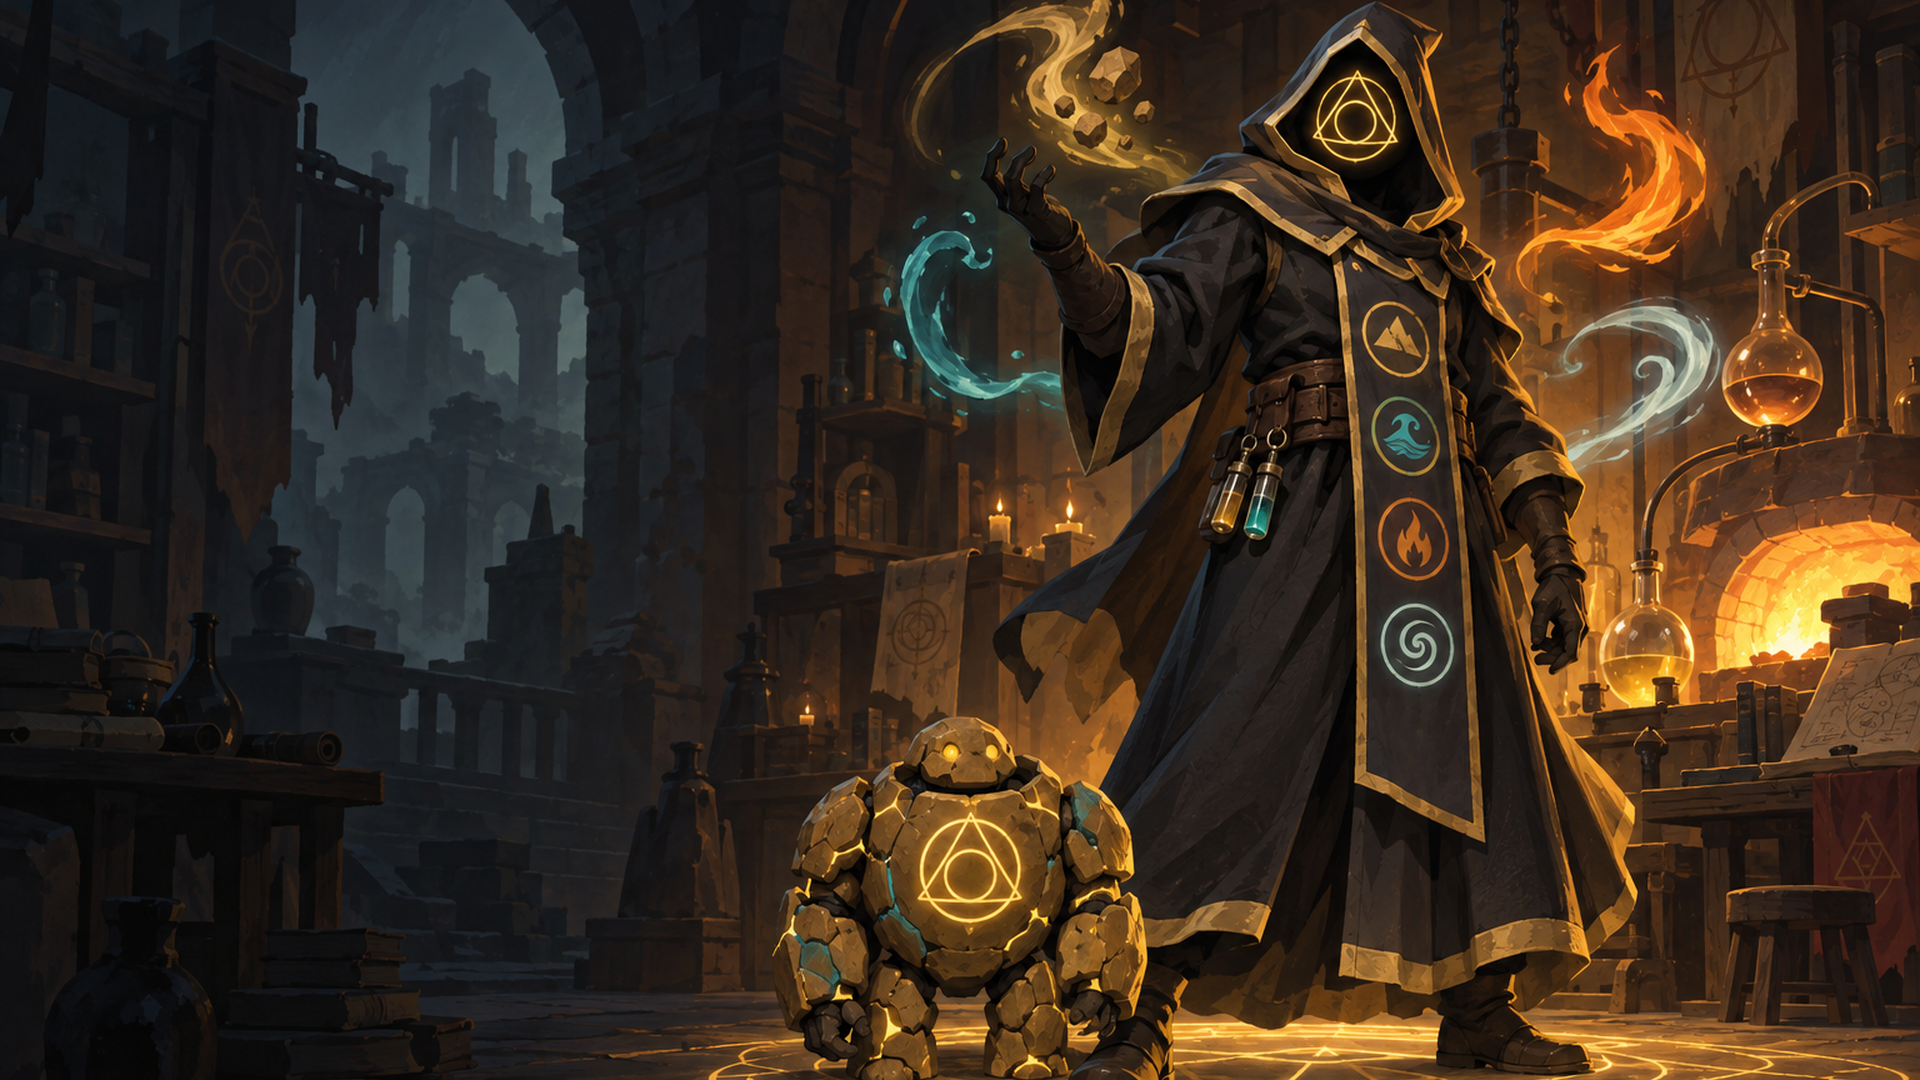
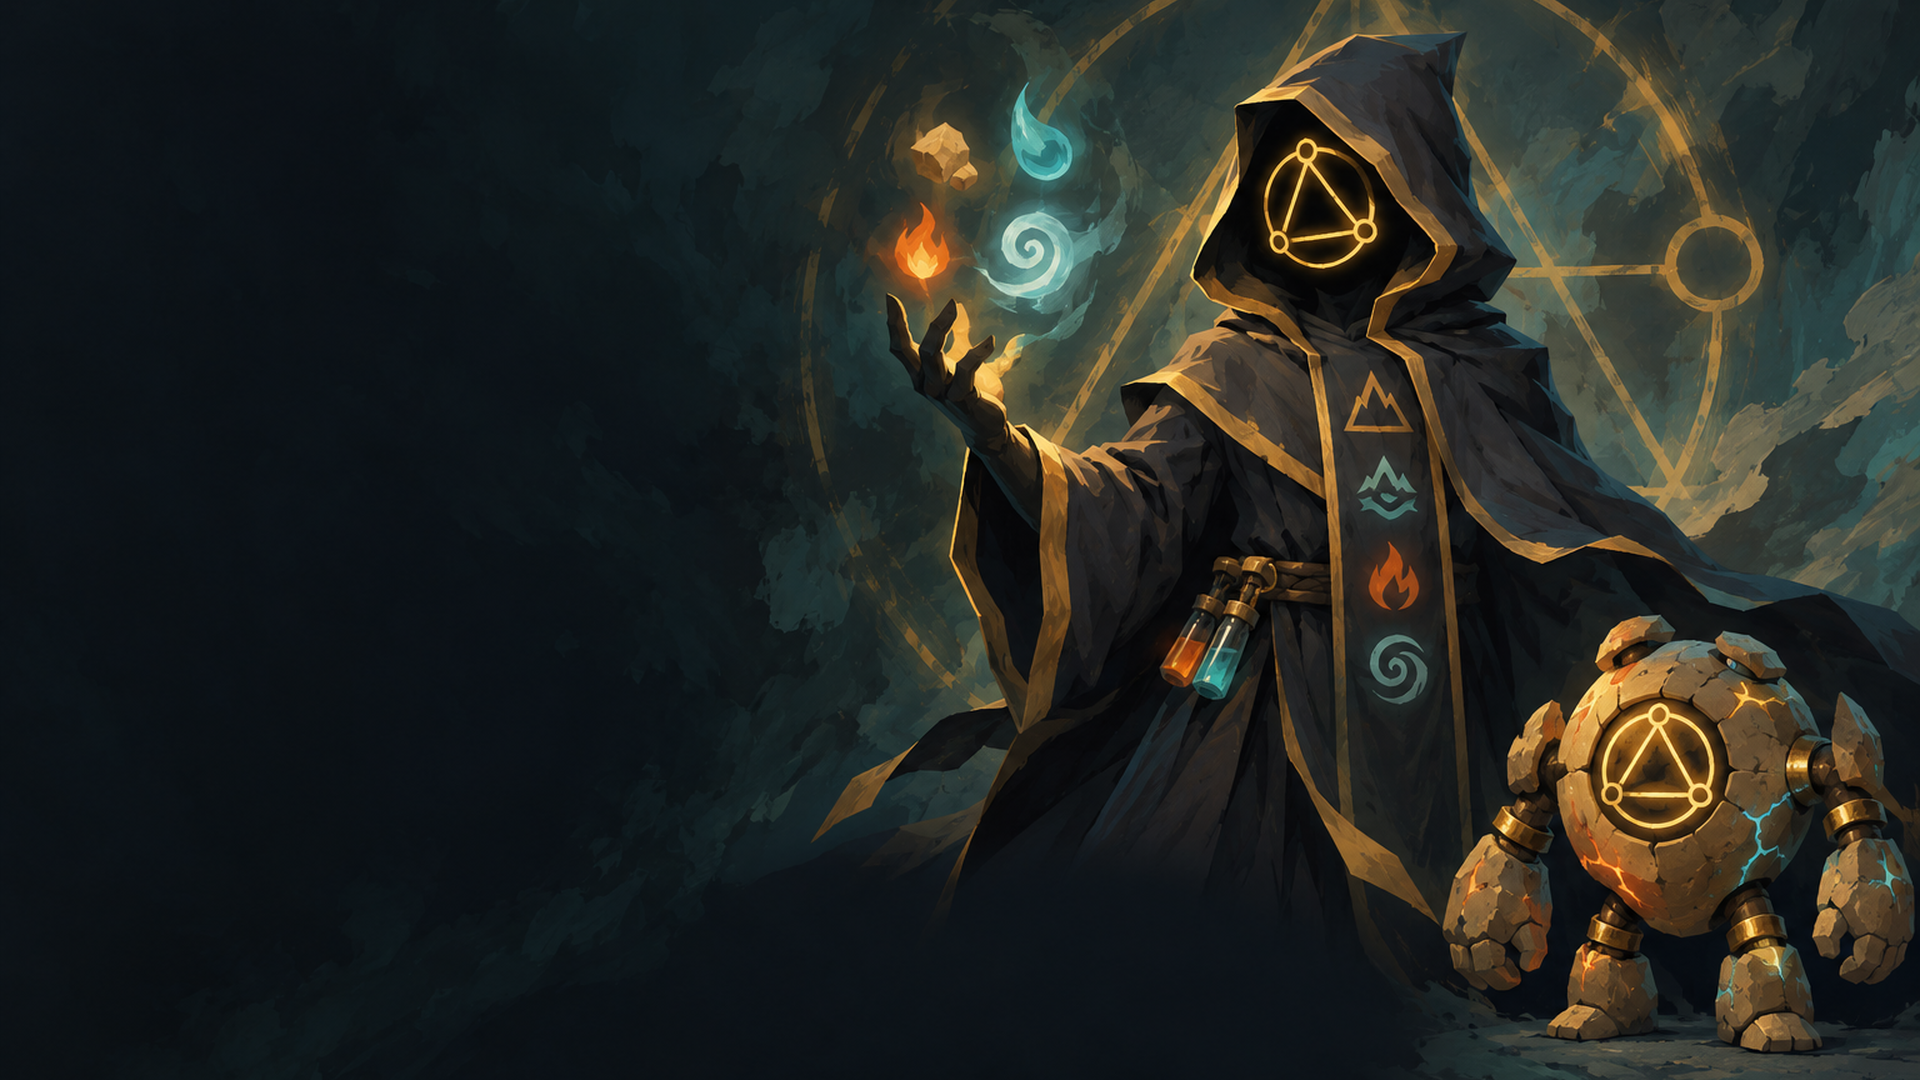
キャラ選択：アイコンを自前の絵の場所から読む、顔アップの肖像、シンプルな背景

diff --git a/scripts/select-bg.py b/scripts/select-bg.py
@@ -3,7 +3,10 @@
 Usage: python scripts/select-bg.py [--note "extra direction"] [--crop-only]
 Writes assets/concepts/select-bg.png (the raw image) and assets/art/character/select_bg.png (1920x1080, what the
 mod shows; CharacterArt.SelectBg). The base game's select screens put the character right of centre and keep the
-left side calm for the character list and description (2026-09-30).
+left side calm for the character list and description (2026-09-30). Second version (user, same day: the workshop was
+too busy and the golem sat under the ascension panel): a plain backdrop, the golem at the far right. At 1920x1080 the
+game's UI covers the info panel (x 296-822, y 345-779), the ascension panel (x 643-1277, y 738-855), the character
+buttons (y 851-1005, centred) and the confirm button (x 1760-, y 726-836), from character_select_screen.tscn.
 """
 import shutil
 import subprocess
@@ -36,12 +39,16 @@ brief = (
     "The first attached image is the base game's cast (visual language only, do not copy). The second is the "
     "Alchemist: draw them exactly like it (hooded charcoal robe with gold trim, a glowing gold alchemical sigil as the "
     "face, a vertical band of the four element marks, belt with two vials). The third is their small stone golem "
-    "companion: include it at the Alchemist's feet.\n"
-    "Composition: the Alchemist stands large, right of centre (occupying roughly the right half), three-quarter view, "
-    "a confident pose with one hand raised, a faint gold transmutation circle glowing under them. Setting: a dim, "
-    "atmospheric alchemist's workshop inside old stone ruins, with a glowing furnace, glassware, and four subtle "
-    "wisps of the element colours (ochre earth, teal water, orange fire, pale cyan air) drifting around the figure. "
-    "The left 40% of the image is darker and calmer (UI text will sit there) but still part of the same scene.\n"
+    "companion: include it clearly, standing beside the Alchemist.\n"
+    "Background: SIMPLE, like the base game's select screens: no room, no furniture, no architecture, no props. Only "
+    "a dark charcoal-to-deep-teal backdrop with soft painterly brush texture and a large faint gold transmutation "
+    "circle glowing behind the figures, plus four small wisps of the element colours (ochre earth, teal water, orange "
+    "fire, pale cyan air) near the Alchemist's raised hand.\n"
+    "Composition (the game's UI covers parts of the screen, keep them plain): the Alchemist stands large in the right "
+    "half, three-quarter view, one hand raised, the hood's top near the upper edge. The golem stands at the far right "
+    "next to the Alchemist, with its whole body visible and its feet ABOVE the bottom quarter. The left 40% and the "
+    "bottom-centre band (the lowest 30% between 25% and 70% of the width, where the character buttons and the "
+    "ascension selector sit) contain only the plain backdrop.\n"
     "Style: Slay the Spire 2 painterly look, minimal thin line work, large flat colour masses with soft brush "
     "texture, dramatic lighting. No text, no logo, no frame, no UI.\n" + (f"Extra direction: {note}\n" if note else ""))
 cmd = [codex, "exec", "-s", "workspace-write", "-C", str(ROOT), "-c", 'model_reasoning_effort="low"']

diff --git a/scripts/make-character-art.py b/scripts/make-character-art.py
@@ -5,7 +5,7 @@ Input: assets/art/character/alchemist.png (python scripts/import-pet.py assets/c
 --height 1000 --out assets/art/character/alchemist.png). Writes into assets/art/character/:
   icon.png          85x85   top panel, run history, ancients' dialogue (the hooded head with the sigil)
   icon_outline.png  85x85   white silhouette of icon.png, drawn behind it
-  char_select.png   132x195 character select button (bust on a teal panel)
+  char_select.png   132x195 character select button (the hooded face close up on a teal panel)
   map_marker.png    49x64   map position marker (a chevron, like the base game's)
 char_select and map_marker are also written as .ctex: the game types those two as CompressedTexture2D, which only
 loads Godot's own texture file (header "GST2" + WebP, the same layout as the base game's imported files).
@@ -20,6 +20,7 @@ from PIL import Image, ImageDraw, ImageFilter
 ROOT = Path(__file__).resolve().parent.parent
 DIR = ROOT / "assets/art/character"
 TEAL, DARK, GOLD = (115, 214, 178), (22, 54, 50), (214, 170, 84)
+SELECT_BG = (32, 150, 128)  # saturated like the base game's portraits (red, green, blue, pink, orange)
 
 body = Image.open(DIR / "alchemist.png").convert("RGBA")
 w, h = body.size
@@ -37,15 +38,17 @@ outline = Image.new("RGBA", icon.size, (255, 255, 255, 0))
 outline.putalpha(alpha)
 outline.save(DIR / "icon_outline.png")
 
-# Character select: head and shoulders on a flat panel, like the base game's buttons.
+# Character select: the hooded face close up on a flat saturated colour, like the base game's buttons (user,
+# 2026-09-30: "closer, about just the face"). The sigil face sits at about (0.71w, 0.12h) of the key visual.
 cw, ch = 132, 195
-bust = body.crop((int(w * 0.32), 0, int(w * 0.94), int(w * 0.62 * ch / cw)))
-bust = bust.resize((cw, round(bust.height * cw / bust.width)), Image.LANCZOS)
-panel = Image.new("RGBA", (cw, ch), DARK + (255,))
+fw = int(w * 0.34)
+fx = int(w * 0.71) - fw // 2
+bust = body.crop((fx, int(h * 0.01), fx + fw, int(h * 0.01) + fw * ch // cw)).resize((cw, ch), Image.LANCZOS)
+panel = Image.new("RGBA", (cw, ch), SELECT_BG + (255,))
 glow = Image.new("RGBA", (cw, ch), (0, 0, 0, 0))
-ImageDraw.Draw(glow).ellipse((-20, 10, cw + 20, ch + 60), fill=TEAL + (110,))
-panel.alpha_composite(glow.filter(ImageFilter.GaussianBlur(24)))
-panel.alpha_composite(bust.crop((0, 0, cw, ch)), (0, 8))
+ImageDraw.Draw(glow).ellipse((10, 20, cw - 10, ch - 60), fill=(150, 235, 205, 120))
+panel.alpha_composite(glow.filter(ImageFilter.GaussianBlur(20)))
+panel.alpha_composite(bust)
 ImageDraw.Draw(panel).rectangle((0, 0, cw - 1, ch - 1), outline=GOLD + (255,), width=2)
 panel.save(DIR / "char_select.png")
 

diff --git a/tests/Alchemy.Smoke/Smoke.cs b/tests/Alchemy.Smoke/Smoke.cs
@@ -652,6 +652,13 @@ public static class Smoke
             Check(character.CharacterSelectIcon is { } selectIcon && selectIcon.GetWidth()==132 && selectIcon.GetHeight()==195
                 && character.MapMarker is { } mapMarker && mapMarker.GetWidth()==49 && mapMarker==CharacterArt.MapMarker,
                 $"the character select portrait and the map marker load from the mod's .ctex files ({character.CharacterSelectIcon?.GetSize()}, {character.MapMarker?.GetSize()})");
+            // The select button and map load by path (ResourceLoader), not through the patched getters alone.
+            string? selectPath=Traverse.Create(character).Property("CharacterSelectIconPath").GetValue<string>();
+            string? markerPath=Traverse.Create(character).Property("MapMarkerPath").GetValue<string>();
+            var byPath=selectPath is null ? null : ResourceLoader.Load<CompressedTexture2D>(selectPath);
+            var markerByPath=markerPath is null ? null : ResourceLoader.Load<CompressedTexture2D>(markerPath);
+            Check(byPath is { } bp && bp.GetWidth()==132 && bp.GetHeight()==195 && markerByPath is { } mp && mp.GetWidth()==49,
+                $"the game's loader reads the alchemist's select portrait and map marker from their paths ({selectPath}, {byPath?.GetSize()}, {markerByPath?.GetSize()})");
             // Shaped like the base game's AnimatedBg at 1920x1080: 2560x1200 at (-388,-80), scaled 1.1 about (1280, 600).
             var bgContainer=new Control{Position=new Vector2(-388,-80),Size=new Vector2(2560,1200),Scale=new Vector2(1.1f,1.1f),PivotOffset=new Vector2(1280,600)};
             bgContainer.AddChild(new Control{Name=character.Id.Entry+"_bg"});

diff --git a/src/Alchemy/Character.cs b/src/Alchemy/Character.cs
@@ -39,6 +39,12 @@ public sealed class AlchemistCharacter : PlaceholderCharacterModel
             ExpandMode = TextureRect.ExpandModeEnum.IgnoreSize, StretchMode = TextureRect.StretchModeEnum.KeepAspectCentered,
         }
         : null;
+    public override string? CustomCharacterSelectIconPath
+        => CharacterArt.CtexPath("char_select.ctex") ?? base.CustomCharacterSelectIconPath;
+    public override string? CustomCharacterSelectLockedIconPath
+        => CharacterArt.CtexPath("char_select.ctex") ?? base.CustomCharacterSelectLockedIconPath;
+    public override string? CustomMapMarkerPath
+        => CharacterArt.CtexPath("map_marker.ctex") ?? base.CustomMapMarkerPath;
     public override List<(string, string)> Localization => new CharacterLoc(
         "錬金術師", "錬金術師", "四元素の相を切り替えて戦い、現在相から素材を採取する。\n工房で錬成・改造・調薬・付与を行う旅人。\n【試作版：外見は仮】",
         "彼ら", "彼ら", "彼らの", "彼らの", "薬草と鉄", "次の相へ。", "炉の火が消えた。", "まだ火は残っている。", "次の工房に備えよう。", "錬金術師のカード", "錬金術師のカードを使う。");

diff --git a/src/Alchemy/CardArt.cs b/src/Alchemy/CardArt.cs
@@ -65,6 +65,15 @@ public static class CharacterArt
     public static CompressedTexture2D? CharacterSelect => Ctex("char_select.ctex");
     public static CompressedTexture2D? MapMarker => Ctex("map_marker.ctex");
 
+    /// The file's absolute path for the game's ResourceLoader, or null without the file. The getters that hand out
+    /// these textures only load a path, and a postfix on them did not reach the real select button (still the
+    /// Ironclad, user report 2026-09-30), so the path itself is redirected.
+    public static string? CtexPath(string file)
+    {
+        string path = Path.Combine(ArtDirectory, file);
+        return File.Exists(path) ? path.Replace('\\', '/') : null;
+    }
+
     private static Texture2D? Png(string file, int height = 0)
     {
         if (Loaded.TryGetValue(file, out var cached)) return cached;

diff --git a/docs/session-log.md b/docs/session-log.md
@@ -19,6 +19,11 @@
 
 
 ### やったこと
+- **キャラ選択の肖像・背景を作り直し**（2026-09-30、ユーザー：「アイコンがアイアンクラッドになっている」「背景がごちゃごちゃ。他キャラと同じく後ろはシンプルに、ゴーレムを見やすい位置に。アセンション欄に被っている」「アイコンは顔だけくらいのアップで」）：
+  - アイコン：ゲームはボタンの絵を`CharacterSelectIconPath`から読む。getterの後置きが実機で効いていなかった（推定：呼び出し側へのインライン化）ため、`CustomCharacterSelectIconPath`・`CustomCharacterSelectLockedIconPath`・`CustomMapMarkerPath`を自前の.ctexの絶対パスにした（`CharacterArt.CtexPath`）。ゲームの`ResourceLoader`で読めることをスモークで確認。
+  - 肖像は顔のアップを彩度の高い青緑の単色に（`scripts/make-character-art.py`、バニラの並びと比較済み）。
+  - 背景：`scripts/select-bg.py`の指示を変更（部屋・小物なし、暗い背景と錬成陣だけ、ゴーレムは右端）。UIの位置はゲームの`character_select_screen.tscn`から読み、docstringに記録。確認ボタンがゴーレムの右の拳に少し掛かる。
+  - スモーク381件PASS、ゲームへ反映済み（旧版`artifacts/backups/20260930-230733-260`）。実画面は未確認。
 - **ストライク・防御の絵を作り直し**（2026-09-30、ユーザー：「ストライクは赤、防御は青を背景にしないと他キャラと整合が取れない。見づらい」）：バニラ5キャラのストライク・防御をpckから取り出して比較（赤地に武器1つの大写し／青緑地に盾と白い矢印が弾かれる。背景は単色と筆跡のみ）。その型で4案を1回生成（`artifacts/art-gen/basics/`、参考画像にバニラの比較シートを渡した。リポジトリには入れない）→ユーザーが**ストライクB（籠手と真鍮の乳棒）・防御A（錬成陣の丸盾）**を選択、取り込み・ゲームへ反映済み（旧版`artifacts/backups/20260930-224745-893`）。実画面は未確認。他のカード絵はまだ紫の背景で描き込みが多い。同じ理由で直すかは未確認。
 - **キャラ選択画面の背景**（2026-09-30、ユーザー依頼）：`scripts/select-bg.py`で1回生成（工房に立つ錬金術師とゴーレム、四相の光、左側は暗め）→`assets/art/character/select_bg.png`（1920×1080）。ゲームは全キャラの背景シーンをパスで先読みするため、パスはアイアンクラッドのまま、画面に置かれた直後に全画面の1枚絵へ差し替え（`AlchemistSelectBg`、`SelectCharacter`・ランダム選択・マルチの読み込み画面の後置き）。スモーク379件PASS、ゲームへ反映済み（旧版`artifacts/backups/20260930-013408-426`）。実画面は未確認（バニラの背景にある光の粒子や動きはない）。
 - ユーザー報告「はみ出してる」→ 背景の入れ物（`AnimatedBg`）は画面より大きく（1920×1080で2560×1200、1.1倍、マウスで動く）、入れ物いっぱいに広げた絵が拡大されて錬金術師が右にはみ出していた。入れ物の変形から画面に映る範囲を計算し、4%の余白を付けてそこに置くよう修正（`AlchemistSelectBg.VisibleRect`）。あわせて、TextureRectの大きさを`IgnoreSize`の後に設定（先だと元画像の1920×1080未満に縮まない）。スモーク380件PASS、反映済み（旧版`artifacts/backups/20260930-015142-417`）。実画面は未確認。
